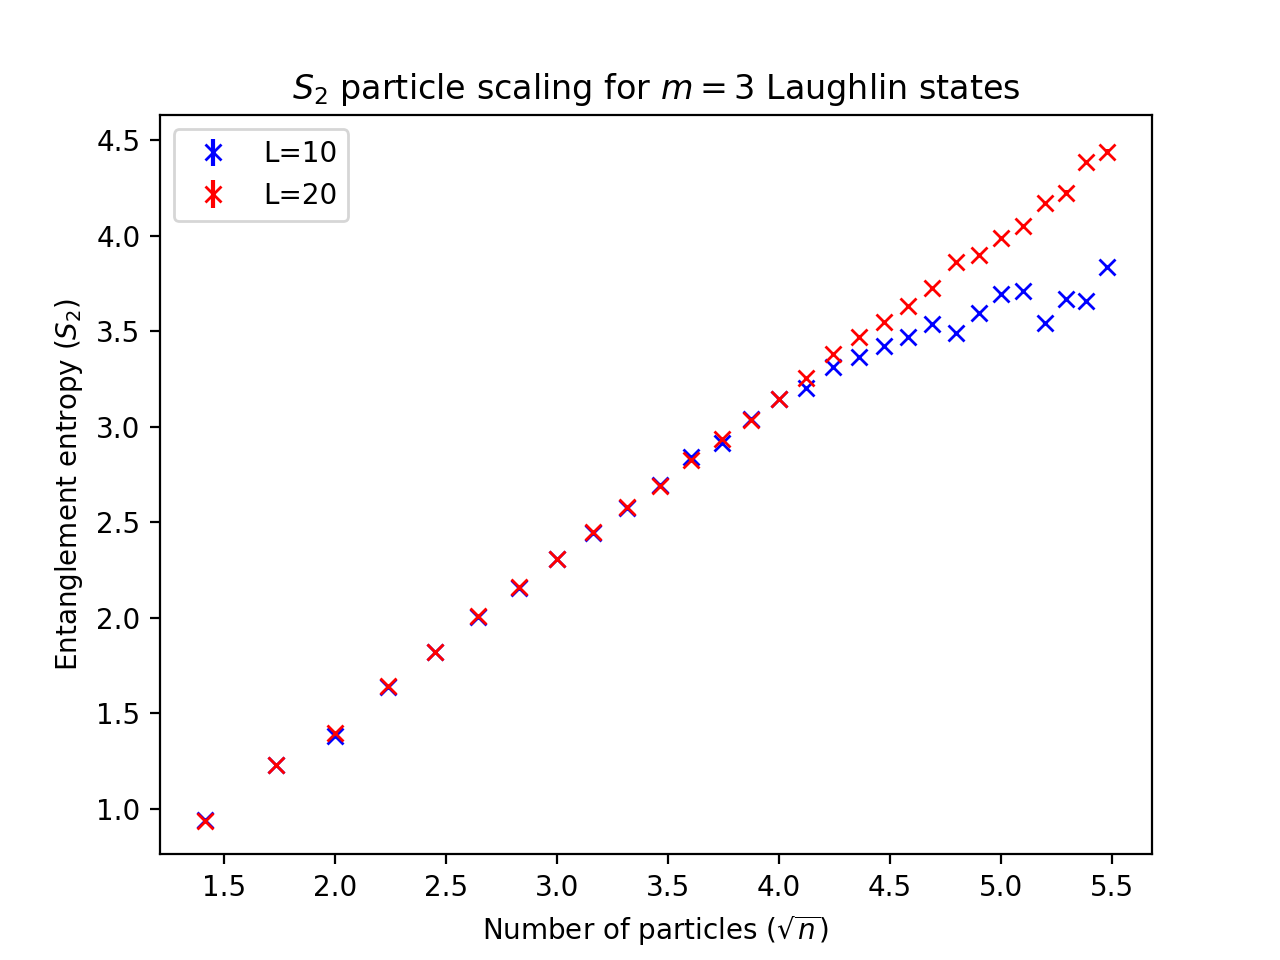
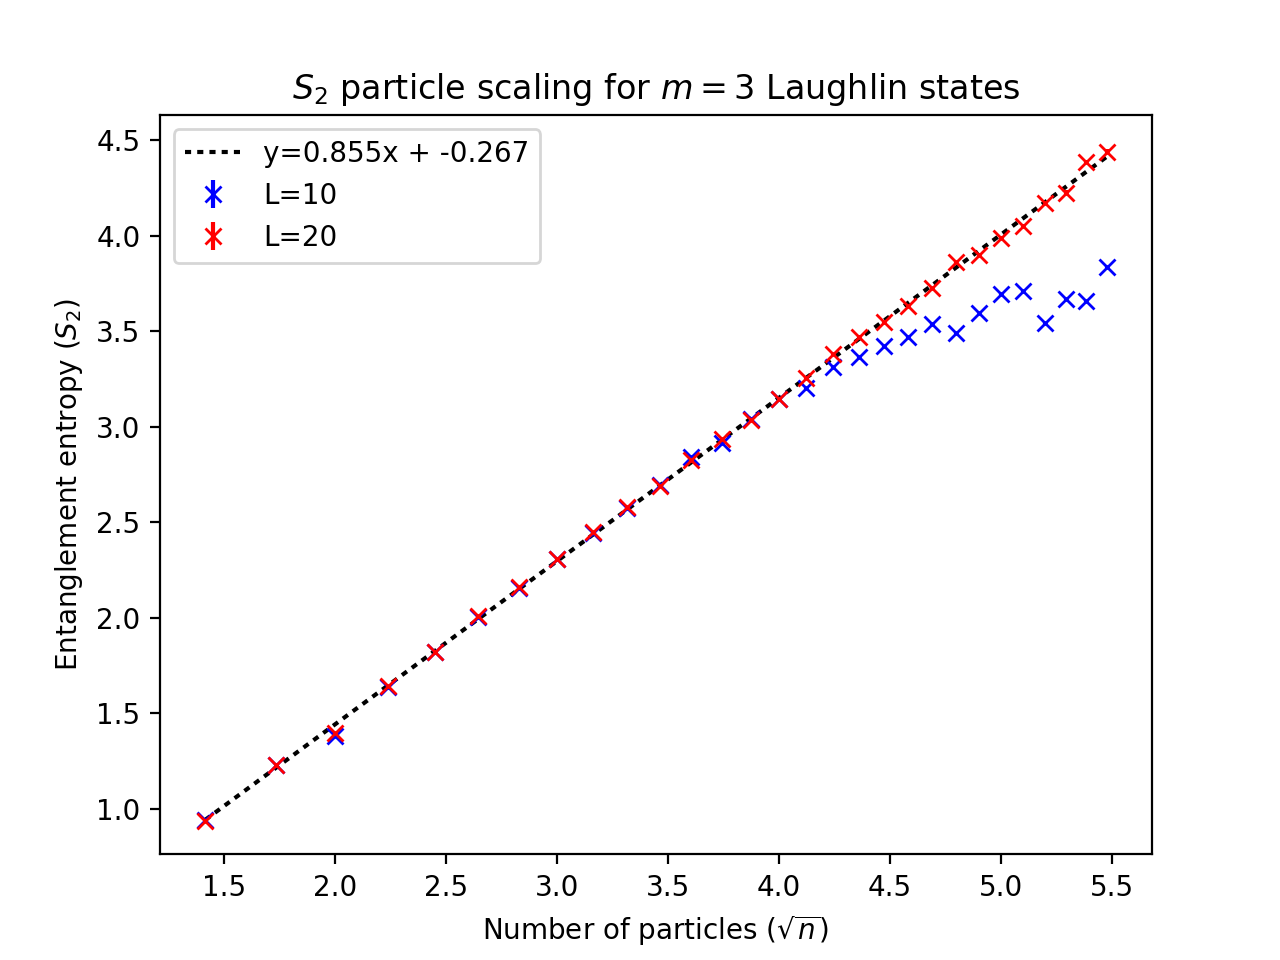
Add linregress to the plots

Changed region(s): [[0.125, 0.125, 0.4375, 0.2812], [0.4062, 0.25, 0.4375, 0.2812]]

diff --git a/plotting/s2_vs_n_m3.py b/plotting/s2_vs_n_m3.py
@@ -1,6 +1,8 @@
 import numpy as np
 import matplotlib.pyplot as plt
 import os
+import statsmodels.api as sm
+from scipy.stats import linregress
 
 data_dir = os.path.join(os.path.dirname(__file__),'..','data','s2')
 
@@ -50,16 +52,36 @@ with open(os.path.join(data_dir, 'MC_m3_10m_L20_n30.txt') ) as f:
         y_err2.append(y_err)
 
 
+
+
+#Plot least square fit for each scatter
+slope,intercept,r_value,p_value,std_error = linregress(x2,y2)
+
+#Find least square fit for each scatter
+model = sm.OLS(y2,sm.add_constant(x2))
+result = model.fit()
+print(result.summary())
+
+#Create an x-array for the regression line
+x_max = x2[len(x2)-1]
+x_min = x2[0]
+xplot = np.linspace(x_min,x_max,num=100)
+
+#Apply the straight line equation with the parameters from linregress
+y1_line = (slope * xplot + intercept)
+
+#Plot the linear regression lines
+plt.plot(xplot,y1_line, c='black', ls='dotted', label= 'y=' + "%.3f" % slope + 'x + ' + "%.3f" % intercept)
+
 plt.title("$S_2$ particle scaling for $m=3$ Laughlin states")
 plt.xlabel(r"Number of particles ($\sqrt{n}$)")
 plt.ylabel("Entanglement entropy ($S_{2}$)")
-
-#Manually enforce axes not to be negative
 
 #Plot scatter graphs
 plt.errorbar(x1,y1, yerr=y_err1, c='b', ls='none', marker='x', label="L=10")
 plt.errorbar(x2,y2, yerr=y_err2, c='r', ls='none', marker='x', label="L=20")
 
 plt.legend(loc = 'upper left')
+
 
 plt.show()

diff --git a/plotting/s2_vs_n_m5.py b/plotting/s2_vs_n_m5.py
@@ -1,6 +1,8 @@
 import numpy as np
 import matplotlib.pyplot as plt
 import os
+import statsmodels.api as sm
+from scipy.stats import linregress
 
 data_dir = os.path.join(os.path.dirname(__file__),'..','data','s2')
 
@@ -53,12 +55,30 @@ plt.title("$S_2$ particle scaling for $m=5$ Laughlin states")
 plt.xlabel(r"Number of particles ($\sqrt{n}$)")
 plt.ylabel("Entanglement entropy ($S_{2}$)")
 
-#Manually enforce axes not to be negative
+#Plot least square fit for each scatter
+slope,intercept,r_value,p_value,std_error = linregress(x2,y2)
+
+#Find least square fit for each scatter
+model = sm.OLS(y2,sm.add_constant(x2))
+result = model.fit()
+print(result.summary())
+
+#Create an x-array for the regression line
+x_max = x2[len(x2)-1]
+x_min = x2[0]
+xplot = np.linspace(x_min,x_max,num=100)
+
+#Apply the straight line equation with the parameters from linregress
+y1_line = (slope * xplot + intercept)
+
+#Plot the linear regression lines
+plt.plot(xplot,y1_line, c='black', ls='dotted', label= 'y=' + "%.3f" % slope + 'x + ' + "%.3f" % intercept)
 
 #Plot scatter graphs
 plt.errorbar(x1,y1, yerr=y_err1, c='b', ls='none', marker='x', label="L=10")
 plt.errorbar(x2,y2, yerr=y_err2, c='r', ls='none', marker='x', label="L=20")
 
 plt.legend(loc = 'upper left')
+
 
 plt.show()

diff --git a/plotting/s2_vs_n_all.py b/plotting/s2_vs_n_all.py
@@ -122,7 +122,7 @@ plt.errorbar(x1,y1, yerr=y_err1, c='b', ls='none', marker='x', label="m=1 10m")
 plt.errorbar(x2,y2, yerr=y_err2, c='r', ls='none', marker='x', label="m=3 10m")
 #plt.errorbar(x3,y3, yerr=y_err3, c='g', ls='none', marker='x', label="m=3 100m")
 #plt.errorbar(x4,y4, yerr=y_err4, c='c', ls='none', marker='x', label="m=5 10m")
-plt.errorbar(x5,y5, yerr=y_err5, c='m', ls='none', marker='x', label="m=5 100m")
+#plt.errorbar(x5,y5, yerr=y_err5, c='m', ls='none', marker='x', label="m=5 100m")
 
 
 '''#Plot least square fit for each scatter
